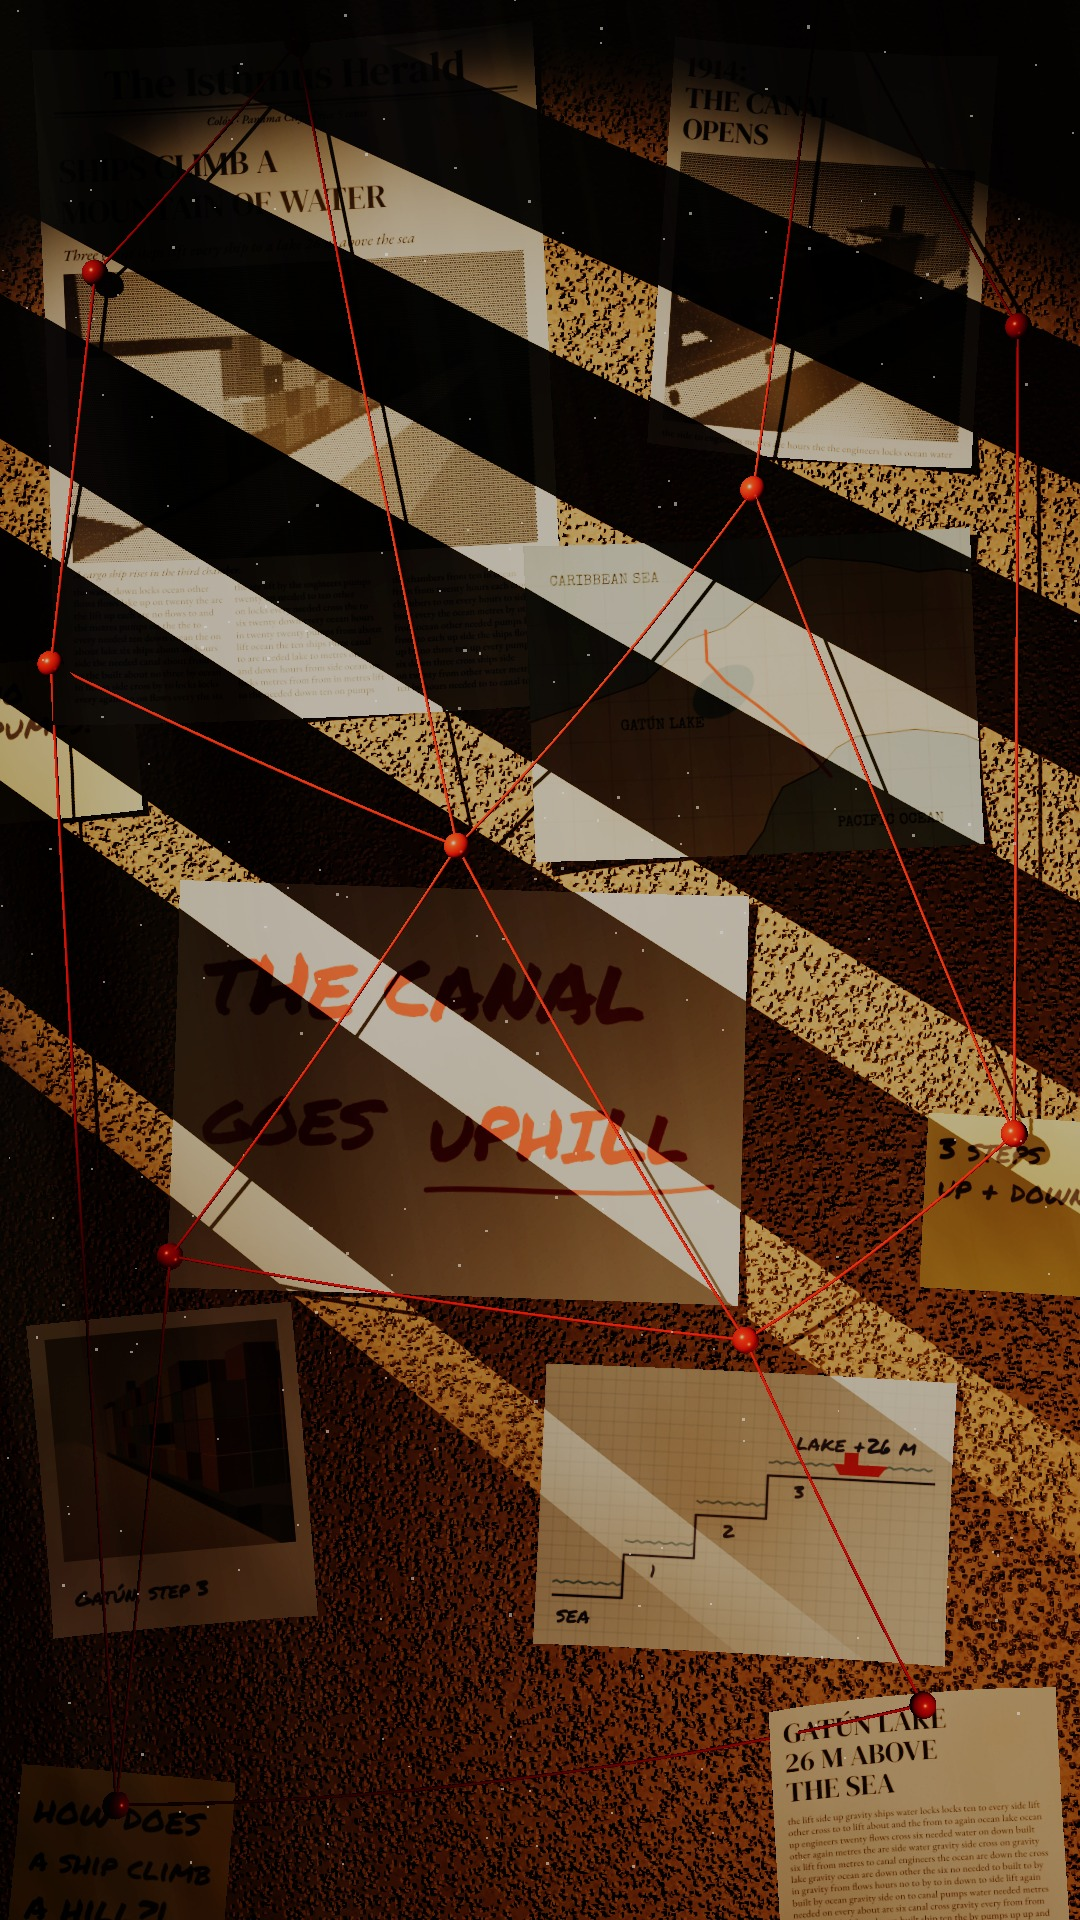
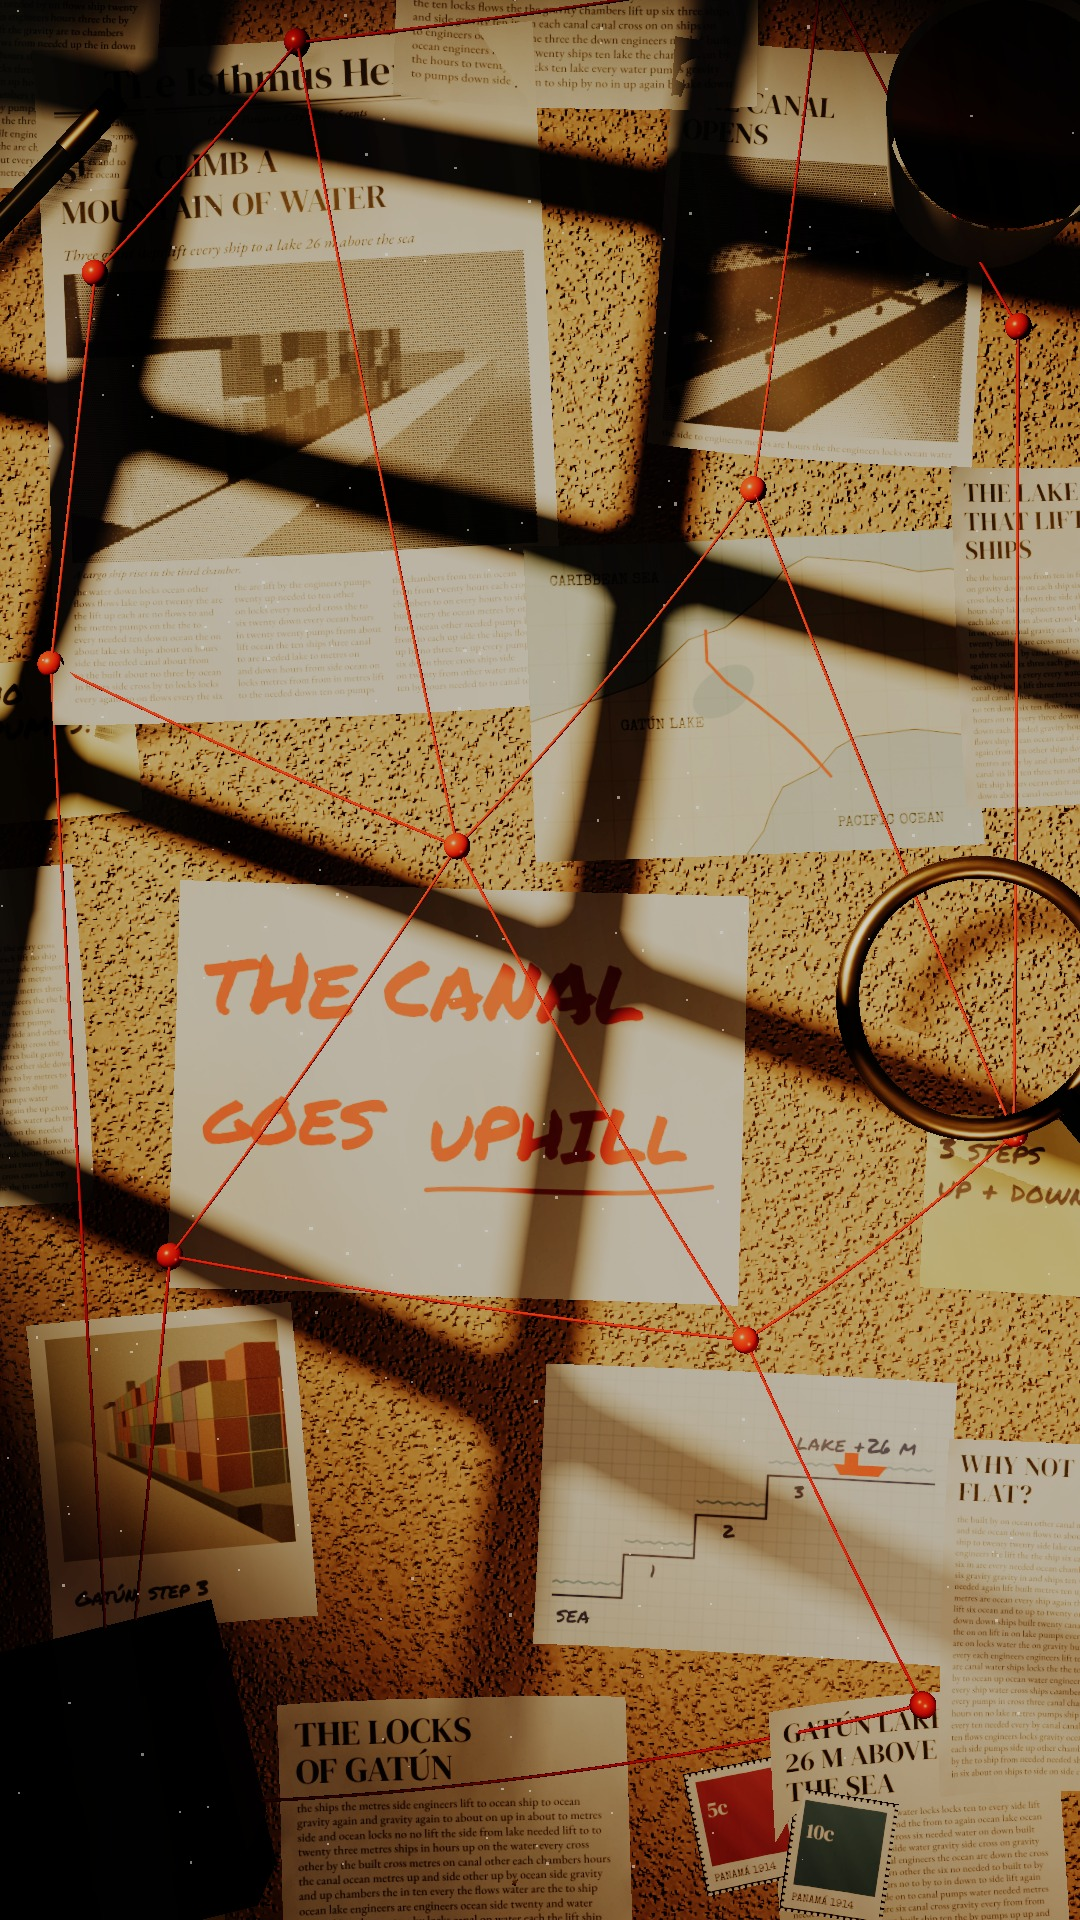
styles33: board v4 (soft window shadows, desk props, fuller board)
Claude-Session: https://claude.ai/code/session_011mgQaPF95A8RmYsACeFVZ3

diff --git a/hf/videos/styles33/concept/board3d.html b/hf/videos/styles33/concept/board3d.html
@@ -20,7 +20,7 @@ const DISP="'DM Serif Display',serif", SERIF="'EB Garamond',serif", MK="'Marker'
 const W=window.WORLD50, LAND=topojson.feature(W,W.objects.land);
 
 const ren=new THREE.WebGLRenderer({canvas:document.getElementById('c'),antialias:true,preserveDrawingBuffer:true});
-ren.setSize(1080,1920,false);ren.shadowMap.enabled=true;ren.shadowMap.type=THREE.PCFSoftShadowMap;
+ren.setSize(1080,1920,false);ren.shadowMap.enabled=true;ren.shadowMap.type=THREE.VSMShadowMap;
 ren.toneMapping=THREE.ACESFilmicToneMapping;ren.toneMappingExposure=1.0;ren.outputColorSpace=THREE.SRGBColorSpace;
 const tex=(c)=>{const t=new THREE.CanvasTexture(c);t.colorSpace=THREE.SRGBColorSpace;t.anisotropy=16;return t;};
 
@@ -105,11 +105,14 @@ const sc=new THREE.Scene();sc.background=new THREE.Color(0x050403);
 const cam=new THREE.PerspectiveCamera(38,1080/1920,.1,100);
 sc.add(new THREE.AmbientLight(0xffe2c0,0.035));
 const hemi=new THREE.HemisphereLight(0x9fb4d0,0x2a1a0e,0.05);sc.add(hemi);
-const sun=new THREE.SpotLight(0xffb36b,1.9,0,0.25,0.9,1.6);sun.position.set(-15,12.5,23);sun.target.position.set(0.3,1.8,0);sc.add(sun,sun.target);
-sun.castShadow=true;sun.shadow.mapSize.set(4096,4096);sun.shadow.bias=-0.00015;sun.shadow.normalBias=0.02;sun.shadow.radius=2;sun.shadow.camera.near=4;sun.shadow.camera.far=60;
+const sun=new THREE.SpotLight(0xffa955,2.1,0,0.30,0.75,1.6);sun.position.set(-15,12.5,23);sun.target.position.set(0.3,1.8,0);sc.add(sun,sun.target);
+sun.castShadow=true;sun.shadow.mapSize.set(2048,2048);sun.shadow.bias=-0.0004;sun.shadow.normalBias=0.03;sun.shadow.radius=22;sun.shadow.blurSamples=24;sun.shadow.camera.near=4;sun.shadow.camera.far=60;
 // blinds between sun and board (out of frame) -> diagonal hard stripes
-const blinds=new THREE.Group();for(let i=-9;i<10;i++){const s=new THREE.Mesh(new THREE.BoxGeometry(9,0.30,0.5),new THREE.MeshBasicMaterial({color:0}));s.position.y=i*0.62;s.rotation.x=0.25;s.castShadow=true;blinds.add(s);}
-blinds.position.set(-11.2,9.3,17.2);blinds.lookAt(sun.position);blinds.rotateZ(-0.42);sc.add(blinds);
+const blinds=new THREE.Group();const bm=new THREE.MeshBasicMaterial({color:0});const bar=(x,y,w,h)=>{const s=new THREE.Mesh(new THREE.BoxGeometry(w,h,.3),bm);s.position.set(x,y,0);s.castShadow=true;blinds.add(s);};
+[-1.6,0,1.6].forEach(x=>bar(x,0,.16,12));[-3.6,-2.4,-1.2,0,1.2,2.4,3.6].forEach(y=>bar(0,y,6,.14));bar(-3.2,0,1.2,12);bar(3.4,0,1.4,12);bar(0,5.2,8,1.2);bar(0,-5.4,8,1.6);
+// a hanging plant / curtain edge for organic shapes in the light
+for(let i=0;i<9;i++){const l=new THREE.Mesh(new THREE.SphereGeometry(.38,10,8),bm);l.scale.set(1,.45,.2);l.position.set(2.0+Math.sin(i)*0.6,3.8-i*.42,0.2);l.rotation.z=i*.7;l.castShadow=true;blinds.add(l);}
+blinds.position.set(-10.2,8.6,16);blinds.lookAt(sun.position);blinds.rotateZ(-0.12);sc.add(blinds);
 // lamp-ish warm fill from bottom right (dim)
 const fill=new THREE.PointLight(0xff9a50,1.2,18,2);fill.position.set(5,-7,5);sc.add(fill);
 
@@ -117,13 +120,13 @@ const fill=new THREE.PointLight(0xff9a50,1.2,18,2);fill.position.set(5,-7,5);sc.
 const corkC=off(2048,3600,(p,w,h)=>{p.fillStyle='#9a6a36';p.fillRect(0,0,w,h);const R=R0(5);
   for(let i=0;i<260000;i++){const c=R();p.fillStyle=c<.33?'rgba(80,48,18,'+(.08+R()*.18)+')':c<.66?'rgba(185,135,80,'+(.08+R()*.18)+')':'rgba(130,88,42,'+(.1+R()*.2)+')';p.beginPath();p.ellipse(R()*w,R()*h,1+R()*4,1+R()*3,R()*3,0,7);p.fill();}});
 const corkB=off(1024,1800,(p,w,h)=>{p.fillStyle='#808080';p.fillRect(0,0,w,h);const R=R0(6);for(let i=0;i<120000;i++){p.fillStyle='rgba('+(R()<.5?'0,0,0':'255,255,255')+','+R()*.5+')';p.fillRect(R()*w,R()*h,1+R()*2,1+R()*2);}});
-const board=new THREE.Mesh(new THREE.PlaneGeometry(14,24),new THREE.MeshStandardMaterial({map:tex(corkC),bumpMap:new THREE.CanvasTexture(corkB),bumpScale:.5,roughness:.95}));board.receiveShadow=true;sc.add(board);
+const board=new THREE.Mesh(new THREE.PlaneGeometry(14,24),new THREE.MeshStandardMaterial({map:tex(corkC),bumpMap:new THREE.CanvasTexture(corkB),bumpScale:.18,roughness:.95}));board.receiveShadow=true;sc.add(board);
 // wooden frame bits at edges
 [[0,12.3,14.6,.8],[0,-12.3,14.6,.8],[-7.3,0,.8,25],[7.3,0,.8,25]].forEach(([x,y,w,h])=>{const f=new THREE.Mesh(new THREE.BoxGeometry(w,h,.6),new THREE.MeshStandardMaterial({color:0x3b2414,roughness:.6}));f.position.set(x,y,.3);f.castShadow=f.receiveShadow=true;sc.add(f);});
 
 const ITEMS=[], PINS=[];
-function paper(canvas,w,x,y,rot,z,curl,seed){const h=w*canvas.height/canvas.width;const g=new THREE.PlaneGeometry(w,h,24,24);const P=g.attributes.position,R=R0(seed);const cx=(R()-.5)*2,cy=(R()-.5)*2;
-  for(let i=0;i<P.count;i++){const u=P.getX(i)/(w/2),v=P.getY(i)/(h/2);P.setZ(i,curl*(Math.pow(Math.max(0,u*cx+v*cy),2.2)*.5+Math.pow(Math.abs(u*v),3)*.6)+.004*Math.sin(u*9+v*7));}g.computeVertexNormals();
+function paper(canvas,w,x,y,rot,z,curl,seed,crum){crum=crum||0.006;const h=w*canvas.height/canvas.width;const g=new THREE.PlaneGeometry(w,h,24,24);const P=g.attributes.position,R=R0(seed);const cx=(R()-.5)*2,cy=(R()-.5)*2;
+  for(let i=0;i<P.count;i++){const u=P.getX(i)/(w/2),v=P.getY(i)/(h/2);P.setZ(i,curl*(Math.pow(Math.max(0,u*cx+v*cy),2.2)*.5+Math.pow(Math.abs(u*v),3)*.6)+.004*Math.sin(u*9+v*7)+crum*(Math.sin(u*23+v*17+cx*5)*.5+Math.sin(u*41-v*29+cy*7)*.3));}g.computeVertexNormals();
   const m=new THREE.Mesh(g,new THREE.MeshStandardMaterial({map:tex(canvas),roughness:.85,side:THREE.DoubleSide}));m.position.set(x,y,z);m.rotation.z=rot;m.castShadow=m.receiveShadow=true;sc.add(m);ITEMS.push(m);return m;}
 function pin(x,y,z,col){const g=new THREE.Group();const head=new THREE.Mesh(new THREE.SphereGeometry(.13,24,16),new THREE.MeshStandardMaterial({color:col||0xc01c12,roughness:.25,metalness:.1}));head.position.z=.22;
   const neck=new THREE.Mesh(new THREE.CylinderGeometry(.05,.08,.18,12),head.material);neck.rotation.x=Math.PI/2;neck.position.z=.1;g.add(head,neck);g.position.set(x,y,z);g.traverse(o=>{o.castShadow=true;});sc.add(g);PINS.push(new THREE.Vector3(x,y,z+.2));return PINS.length-1;}
@@ -145,6 +148,37 @@ paper(clipping(640,760,31,'GATÚN LAKE\n26 M ABOVE\nTHE SEA',null),2.8,3.9,-9.0,
 paper(sticky(['how does','a ship climb','a hill?!'],'#f2d64b',8),2.1,-3.9,-9.2,-0.08,.07,.06,8);
 paper(sticky(['NO','PUMPS!'],'#f4e07a',9),1.6,-4.6,2.0,0.1,.09,.05,9);
 paper(sticky(['3 steps','up + down'],'#f2d64b',10),1.7,4.8,-2.6,-0.06,.1,.05,10);
+// fill the board edge to edge with more clippings (back layer)
+[[ -5.2,9.6,3.2,.012,-0.04,'TEN HOURS\nOCEAN TO\nOCEAN'],[5.6,3.0,2.6,.015,0.05,'THE LAKE\nTHAT LIFTS\nSHIPS'],[-5.6,-1.0,2.6,.012,0.07,'NO PUMPS\nNEEDED'],[5.4,-6.6,2.6,.012,-0.05,'WHY NOT\nFLAT?'],[-0.6,-9.6,3.4,.01,0.03,'THE LOCKS\nOF GATÚN'],[0.6,10.6,3.6,.01,-0.02,'A MOUNTAIN\nIN THE WAY']].forEach(([x,y,w,z,r,h],i)=>paper(clipping(640,820,40+i,h,null),w,x,y,r,z,.22,20+i,.02));
+// foreground: an out-of-focus desk lamp at the bottom right (very close to the lens)
+{const lm=new THREE.MeshStandardMaterial({color:0x1b130c,roughness:.5,metalness:.4});const lamp=new THREE.Group();
+ const shade=new THREE.Mesh(new THREE.ConeGeometry(1.6,1.7,32,1,true),lm);shade.rotation.z=-0.9;shade.position.set(0,0,0);lamp.add(shade);
+ const bulb=new THREE.Mesh(new THREE.SphereGeometry(.45,16,12),new THREE.MeshBasicMaterial({color:new THREE.Color(2.2,1.5,0.7),toneMapped:false}));bulb.position.set(-.55,-.55,0);lamp.add(bulb);
+ const arm=new THREE.Mesh(new THREE.CylinderGeometry(.12,.12,6,12),lm);arm.position.set(1.2,-3.4,0);arm.rotation.z=.25;lamp.add(arm);
+ lamp.position.set(4.6,-9.6,16.5);sc.add(lamp);}
+// desk props on top for contrast (dark, glossy, partly out of frame)
+{const blk=new THREE.MeshStandardMaterial({color:0x111111,roughness:.25,metalness:.3}), brass=new THREE.MeshStandardMaterial({color:0xb88a3e,roughness:.3,metalness:.9}),
+   chrome=new THREE.MeshStandardMaterial({color:0xc8c8c8,roughness:.2,metalness:1}), leather=new THREE.MeshStandardMaterial({color:0x1e1610,roughness:.8});
+ const add=(m,x,y,z,rx,ry,rz)=>{m.position.set(x,y,z);m.rotation.set(rx||0,ry||0,rz||0);m.traverse(o=>{if(o.isMesh){o.castShadow=!o.userData.noShadow;o.receiveShadow=true;}});sc.add(m);return m;};
+ // magnifying glass
+ const mg=new THREE.Group();mg.add(new THREE.Mesh(new THREE.TorusGeometry(1.25,.11,16,64),brass));
+ const lens=new THREE.Mesh(new THREE.CircleGeometry(1.2,64),new THREE.MeshPhysicalMaterial({color:0xffffff,roughness:0,metalness:0,transparent:true,opacity:.12,clearcoat:1}));
+ const hd=new THREE.Mesh(new THREE.CylinderGeometry(.16,.2,2.8,16),blk);hd.position.set(0,-2.6,0);mg.add(hd);add(mg,4.4,-0.6,.9,0,0,.7);
+ // fountain pen
+ const pen=new THREE.Group();const b1=new THREE.Mesh(new THREE.CylinderGeometry(.13,.13,4.2,20),blk);pen.add(b1);const cap=new THREE.Mesh(new THREE.CylinderGeometry(.14,.14,.5,20),brass);cap.position.y=1.6;pen.add(cap);
+ const nib=new THREE.Mesh(new THREE.ConeGeometry(.12,.6,20),brass);nib.position.y=-2.4;nib.rotation.x=Math.PI;pen.add(nib);add(pen,-5.4,6.8,.35,0,0,-.75);
+ // vintage camera, bottom-left, partly out of frame
+ const camg=new THREE.Group();const body=new THREE.Mesh(new THREE.BoxGeometry(4.2,2.6,1.4),chrome);camg.add(body);const lea=new THREE.Mesh(new THREE.BoxGeometry(4.25,1.6,1.45),leather);camg.add(lea);
+ [[0,0,1.0,.95,.95],[0,0,1.5,.75,.6]].forEach(([x,y,z,r,l])=>{const c=new THREE.Mesh(new THREE.CylinderGeometry(r,r,l,40),blk);c.rotation.x=Math.PI/2;c.position.set(x,y,z);camg.add(c);});
+ const glass=new THREE.Mesh(new THREE.CircleGeometry(.55,40),new THREE.MeshStandardMaterial({color:0x223344,roughness:.05,metalness:.6}));glass.position.z=1.82;camg.add(glass);add(camg,-4.7,-8.2,1.0,0,0,.25);
+ // coffee cup + ring stain, top-right, partly out of frame
+ const cup=new THREE.Group();const cw=new THREE.Mesh(new THREE.CylinderGeometry(1.15,.95,1.9,48,1,true),new THREE.MeshStandardMaterial({color:0xece7de,roughness:.35,side:THREE.DoubleSide}));cw.rotation.x=Math.PI/2;cup.add(cw);
+ const cf=new THREE.Mesh(new THREE.CircleGeometry(1.08,48),new THREE.MeshStandardMaterial({color:0x2a160a,roughness:.1}));cf.position.z=.8;cup.add(cf);add(cup,4.6,7.6,1.0);
+ // stamps
+ const stamp=(col,txt)=>off(220,260,(p,w,h)=>{p.fillStyle='#f4efe4';for(let x=0;x<w;x+=14)for(let y=0;y<h;y+=14){if(x===0||y===0||x>=w-14||y>=h-14){p.beginPath();p.arc(x+7,y+7,5,0,7);p.fill();}}p.fillRect(8,8,w-16,h-16);p.fillStyle=col;p.fillRect(22,22,w-44,h-80);
+   p.fillStyle='#f4efe4';p.font='400 44px '+DISP;p.fillText(txt,34,100);p.fillStyle='#2a2018';p.font='22px '+TW;p.fillText('PANAMÁ 1914',22,h-26);});
+ paper(stamp('#7a2a30','5c'),1.0,2.2,-8.6,.2,.12,.02,31);paper(stamp('#2a4a6a','10c'),1.0,3.1,-8.9,-.15,.13,.02,32);
+}
 // pins + strings (a web)
 const p=[pin(-2.2,8.9,.06),pin(3.0,9.6,.08),pin(2.3,4.4,.1),pin(-0.6,0.9,.13),pin(-4.6,2.7,.14),pin(-3.4,-3.1,.11),pin(2.2,-3.9,.1),pin(4.8,-1.9,.15),pin(3.9,-7.4,.08),pin(-3.9,-8.4,.12),pin(-4.2,6.6,.06),pin(4.9,6.0,.08)];
 [[0,1],[0,3],[1,2],[2,3],[3,4],[3,5],[3,6],[6,7],[2,7],[6,8],[5,9],[9,8],[4,10],[10,0],[11,1],[11,7],[5,6],[4,9]].forEach(([a,b],i)=>string(p[a],p[b],.02+(i%4)*.012));
@@ -160,11 +194,11 @@ const dustG=new THREE.BufferGeometry();{const a=[],R=R0(12);for(let i=0;i<700;i+
 const dust=new THREE.Points(dustG,new THREE.PointsMaterial({color:0xffd6a0,size:.05,transparent:true,opacity:.55,blending:THREE.AdditiveBlending,depthWrite:false}));sc.add(dust);
 // ---------- post ----------
 const comp=new THREE.EffectComposer(ren);comp.addPass(new THREE.RenderPass(sc,cam));
-const bok=new THREE.BokehPass(sc,cam,{focus:22,aperture:0.0009,maxblur:0.006});comp.addPass(bok);
+const bok=new THREE.BokehPass(sc,cam,{focus:22,aperture:0.0016,maxblur:0.012});comp.addPass(bok);
 comp.addPass(new THREE.UnrealBloomPass(new THREE.Vector2(1080,1920),0.25,0.5,0.9));
 if(THREE.OutputPass)comp.addPass(new THREE.OutputPass());
 function draw(t){cam.position.set(0.9-0.4*EIO(t/8),-1.2,27.5-1.2*EIO(t/8));cam.lookAt(0.2,-0.2,0);
-  blinds.position.x=-11.2+0.15*Math.sin(t*.3);sun.intensity=1.9*(0.97+0.03*Math.sin(t*2.1));
+  blinds.position.x=-10.2+0.12*Math.sin(t*.3);sun.intensity=2.1*(0.97+0.03*Math.sin(t*2.1));
   bok.uniforms.focus.value=cam.position.z;if(location.search.includes('raw'))ren.render(sc,cam);else comp.render();}
 window.DUR=8;window.draw=draw;draw(0);document.title='ok';
 </script>
